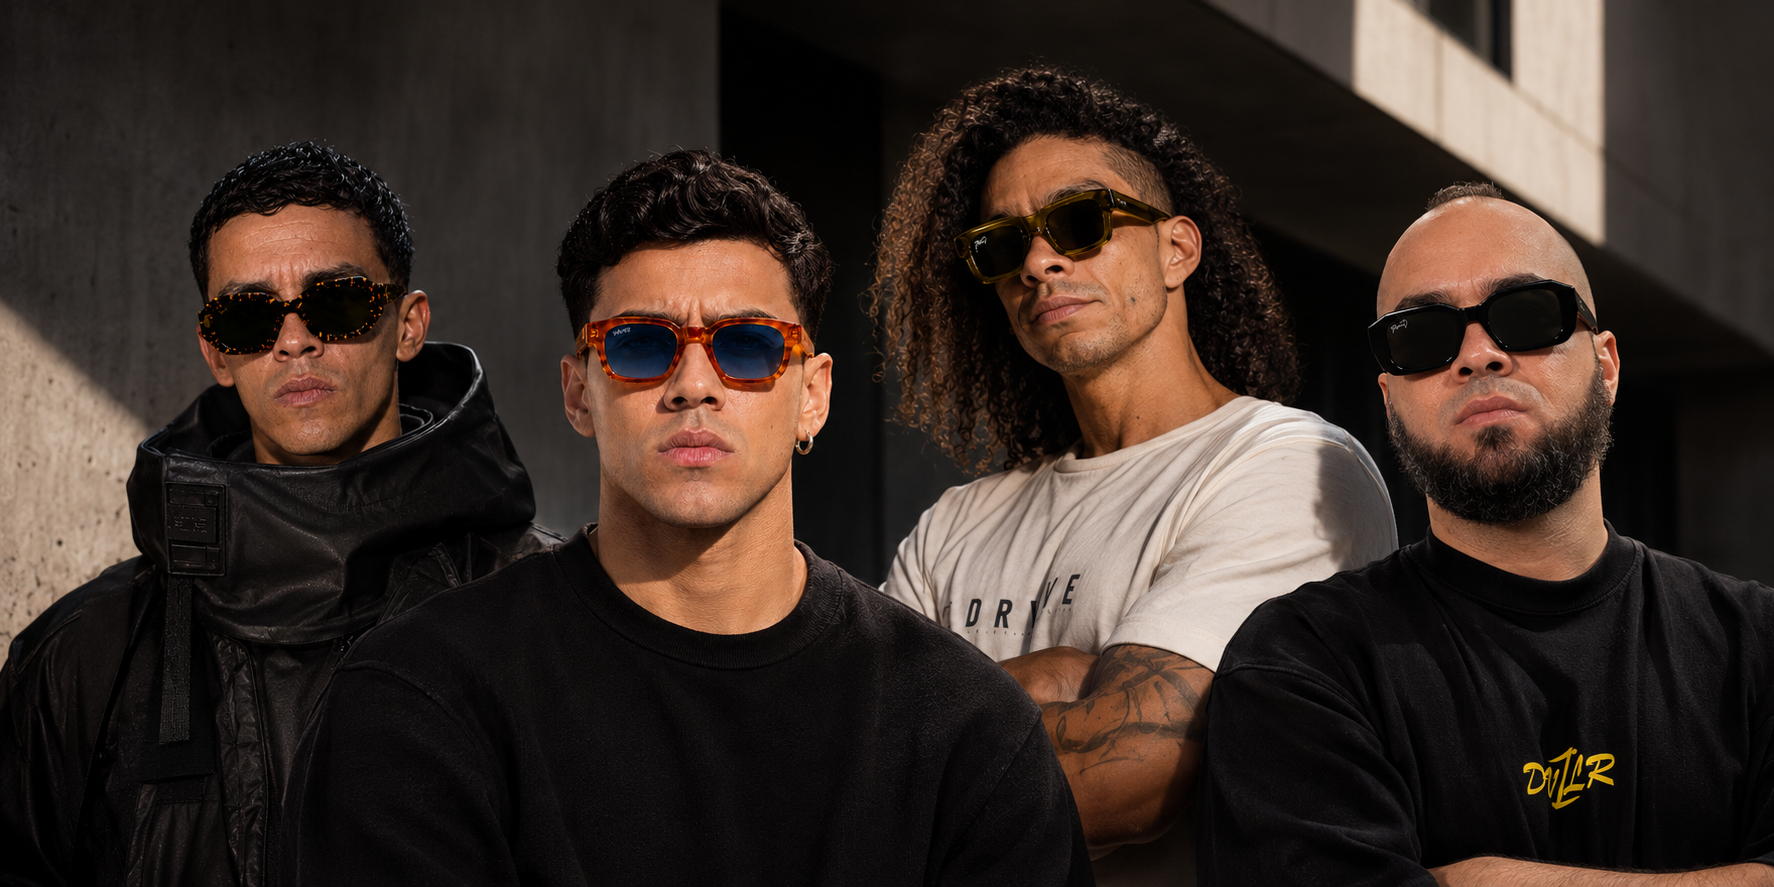
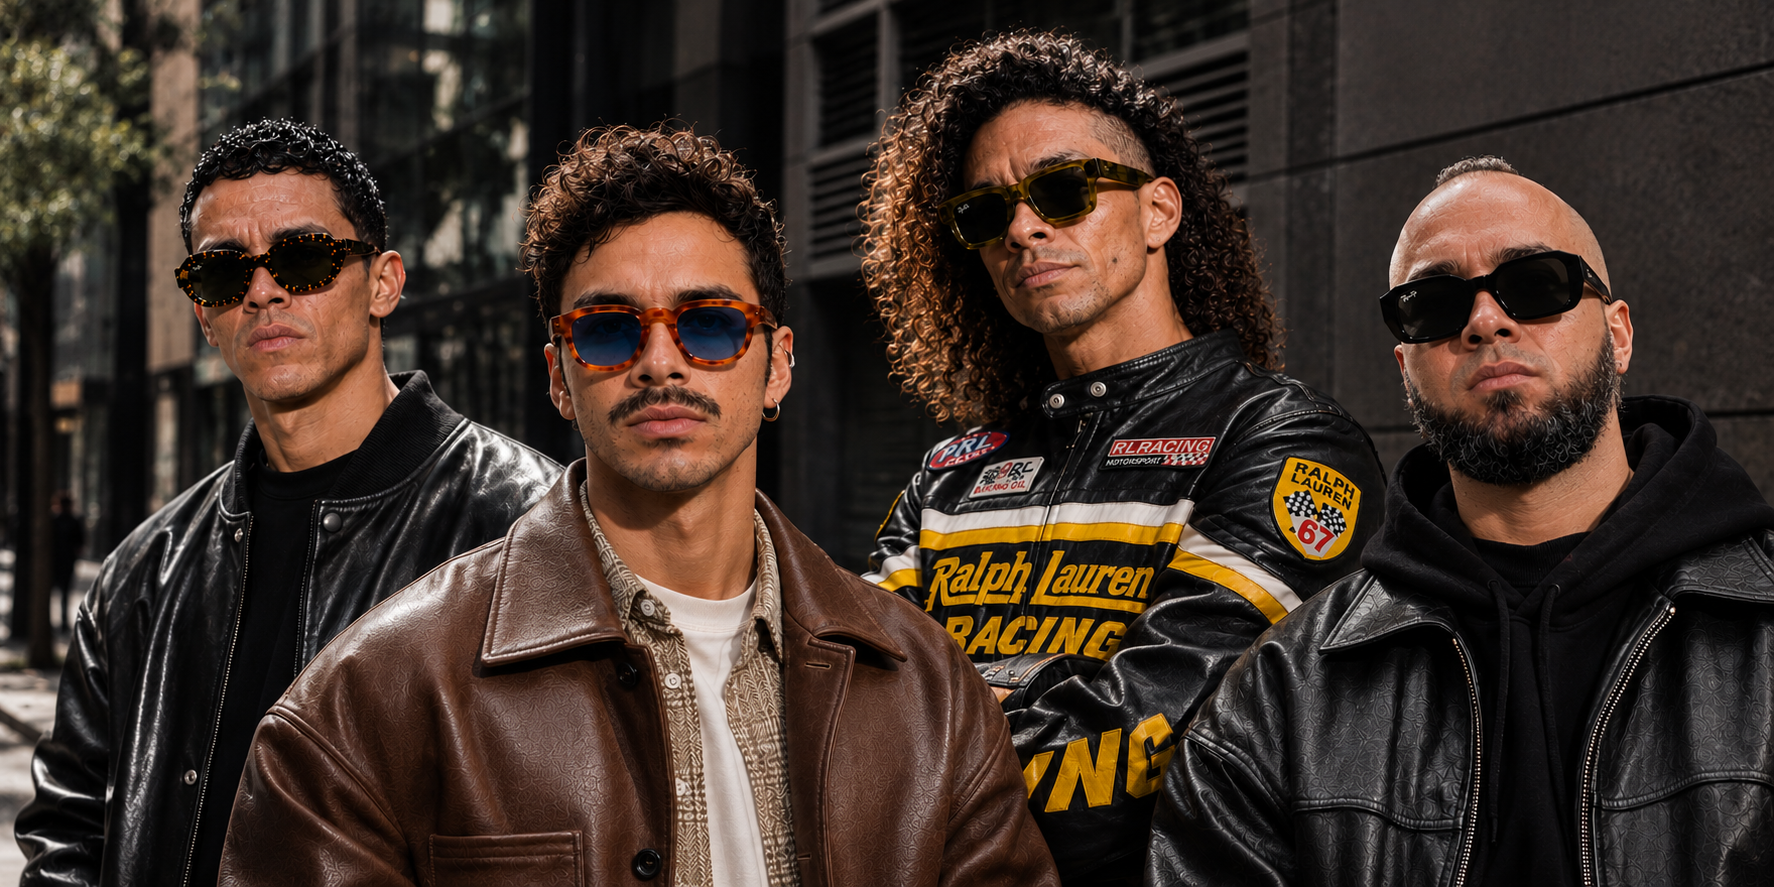
Transicion de paginas moderna, slideshow hero, marquee y galeria de sesion redisenados

diff --git a/app/tienda/page.tsx b/app/tienda/page.tsx
@@ -42,6 +42,11 @@ function TiendaContent() {
   // Active product for the photoshoot session
   const activeProduct = selectedProductId !== 'all' ? PRODUCTS.find((p) => p.id === selectedProductId) : null
 
+  const [shotIndex, setShotIndex] = useState(0)
+  useEffect(() => {
+    setShotIndex(0)
+  }, [selectedProductId])
+
   // Sync state if URL query param changes
   useEffect(() => {
     if (genderParam === 'men') {
@@ -275,108 +280,109 @@ function TiendaContent() {
               transition={{ duration: 0.3, ease: 'easeOut' }}
               className="overflow-hidden mb-10"
             >
-              <div className="p-5 md:p-6 rounded-2xl border border-white/[0.08] bg-[#070707] shadow-[0_12px_40px_rgba(0,0,0,0.7)]">
-                {/* Header de la Sesión */}
-                <div className="flex items-center justify-between pb-4 mb-5 border-b border-white/[0.06]">
-                  <div className="flex items-center gap-3">
-                    <div className="w-9 h-9 rounded-full bg-[#C4822A]/15 border border-[#C4822A]/30 flex items-center justify-center text-[#C4822A] flex-shrink-0">
-                      <Camera size={15} />
-                    </div>
-                    <div>
-                      <div className="flex items-center gap-2">
-                        <span className="font-code text-[8px] tracking-[0.25em] text-[#C4822A] uppercase font-bold">
-                          SESIÓN FOTOGRÁFICA OFICIAL
-                        </span>
-                        <span className="font-code text-[8px] tracking-wider text-white/40 uppercase">
-                          · CÓDIGO {activeProduct.code}
-                        </span>
-                      </div>
-                      <h3 className="font-bebas text-2xl md:text-3xl text-white tracking-wide uppercase">
-                        {activeProduct.name}
-                      </h3>
-                    </div>
+              <div className="rounded-2xl border border-white/[0.08] bg-[#080808] overflow-hidden shadow-[0_12px_40px_rgba(0,0,0,0.7)]">
+                {/* Cabecera editorial */}
+                <div className="flex items-end justify-between gap-4 px-5 md:px-7 pt-5 md:pt-6 pb-4">
+                  <div>
+                    <p className="font-code text-[9px] tracking-[0.3em] text-white/40 uppercase mb-1.5">
+                      Sesión oficial <span className="text-white/20 mx-1">/</span> {activeProduct.code}
+                    </p>
+                    <h3 className="font-bebas text-3xl md:text-4xl text-white tracking-wide uppercase leading-none">
+                      {activeProduct.name}
+                    </h3>
                   </div>
-
                   <button
                     onClick={() => setSelectedProductId('all')}
-                    className="font-code text-[9px] tracking-widest text-white/40 hover:text-white flex items-center gap-1.5 border border-white/10 hover:border-white/30 px-3.5 py-1.5 rounded-full transition-all uppercase"
+                    className="font-code text-[9px] tracking-[0.2em] text-white/50 hover:text-white flex items-center gap-2 transition-colors uppercase"
                     title="Cerrar sesión"
                   >
-                    <span>CERRAR</span>
-                    <X size={12} />
+                    Cerrar
+                    <span className="w-6 h-6 rounded-full border border-white/15 flex items-center justify-center">
+                      <X size={11} />
+                    </span>
                   </button>
                 </div>
 
-                {/* Tomas exclusivamente de ESTA gafa seleccionada */}
-                <div className="flex flex-col gap-2.5">
-                  <div className="flex items-center justify-between">
-                    <div className="flex items-center gap-2">
-                      <span className="w-1.5 h-1.5 rounded-full bg-[#C4822A]" />
-                      <span className="font-code text-[10px] font-bold tracking-[0.18em] text-white uppercase">
-                        {activeProduct.name}
-                      </span>
-                      <span className="font-code text-[9px] tracking-wider text-white/40">
-                        ({activeProduct.gallery.length} tomas de la sesión)
-                      </span>
-                    </div>
-                    <span className="font-code text-[8px] tracking-widest text-white/30 uppercase hidden sm:inline">
-                      HAZ CLIC EN CUALQUIER FOTO PARA AMPLIAR EN ALTA DEFINICIÓN
-                    </span>
-                  </div>
+                {(() => {
+                  const gallery = activeProduct.gallery
+                  const idx = Math.min(shotIndex, gallery.length - 1)
+                  const current = gallery[idx]
+                  const currentIsVideo = current.endsWith('.mp4')
+                  const openLightbox = (i: number) =>
+                    setGalleryState({
+                      images: gallery,
+                      name: activeProduct.name,
+                      code: activeProduct.code,
+                      letter: activeProduct.letter,
+                      initialIndex: i,
+                    })
+                  return (
+                    <div className="grid grid-cols-1 md:grid-cols-[1fr_auto] gap-px bg-white/[0.06] border-t border-white/[0.06]">
+                      {/* Visor principal */}
+                      <button
+                        type="button"
+                        onClick={() => openLightbox(idx)}
+                        className="relative bg-[#050505] aspect-[16/10] md:aspect-auto md:min-h-[360px] overflow-hidden group cursor-zoom-in"
+                      >
+                        <AnimatePresence mode="wait" initial={false}>
+                          <motion.div
+                            key={current}
+                            className="absolute inset-0"
+                            initial={{ opacity: 0 }}
+                            animate={{ opacity: 1 }}
+                            exit={{ opacity: 0 }}
+                            transition={{ duration: 0.35, ease: 'easeOut' }}
+                          >
+                            {currentIsVideo ? (
+                              <video src={current} muted playsInline autoPlay loop className="w-full h-full object-cover" />
+                            ) : (
+                              <Image
+                                src={current}
+                                alt={`${activeProduct.name} — toma ${idx + 1}`}
+                                fill
+                                className="object-contain p-6 md:p-10 group-hover:scale-[1.03] transition-transform duration-700"
+                                sizes="(max-width: 768px) 100vw, 800px"
+                              />
+                            )}
+                          </motion.div>
+                        </AnimatePresence>
+                        <span className="absolute left-4 bottom-4 font-code text-[9px] tracking-[0.25em] text-white/60 uppercase">
+                          {String(idx + 1).padStart(2, '0')} <span className="text-white/25">/ {String(gallery.length).padStart(2, '0')}</span>
+                        </span>
+                        <span className="absolute right-4 bottom-4 w-8 h-8 rounded-full border border-white/15 bg-black/50 backdrop-blur flex items-center justify-center text-white/70 opacity-0 group-hover:opacity-100 transition-opacity">
+                          <Maximize2 size={12} />
+                        </span>
+                      </button>
 
-                  {/* Tira deslizable de fotos */}
-                  <div className="flex gap-3 overflow-x-auto pb-2.5 pt-1 scrollbar-thin">
-                    {activeProduct.gallery.map((imgUrl, imgIdx) => {
-                      const isVideo = imgUrl.endsWith('.mp4')
-                      return (
-                        <div
-                          key={imgUrl}
-                          role="button"
-                          tabIndex={0}
-                          onClick={() => {
-                            setGalleryState({
-                              images: activeProduct.gallery,
-                              name: activeProduct.name,
-                              code: activeProduct.code,
-                              letter: activeProduct.letter,
-                              initialIndex: imgIdx,
-                            })
-                          }}
-                          className="relative flex-shrink-0 w-28 sm:w-36 aspect-[3/4] rounded-xl overflow-hidden border border-white/[0.08] hover:border-white/50 bg-[#0c0c0c] transition-all duration-300 hover:scale-[1.03] cursor-zoom-in group shadow-md"
-                        >
-                          {isVideo ? (
-                            <div className="w-full h-full flex items-center justify-center bg-black/80 relative">
-                              <video src={imgUrl} muted playsInline preload="none" className="w-full h-full object-cover opacity-80" />
-                              <div className="absolute inset-0 bg-black/30 flex items-center justify-center">
-                                <div className="w-8 h-8 rounded-full bg-white/20 backdrop-blur-md flex items-center justify-center text-white group-hover:scale-110 transition-transform">
+                      {/* Miniaturas */}
+                      <div className="bg-[#080808] p-3 md:p-4 flex md:flex-col gap-2 overflow-x-auto md:overflow-y-auto md:max-h-[420px] scrollbar-thin">
+                        {gallery.map((imgUrl, i) => {
+                          const isVideo = imgUrl.endsWith('.mp4')
+                          const active = i === idx
+                          return (
+                            <button
+                              key={imgUrl}
+                              type="button"
+                              onClick={() => setShotIndex(i)}
+                              aria-label={`Ver toma ${i + 1}`}
+                              className={`relative flex-shrink-0 w-20 h-14 md:w-24 md:h-16 overflow-hidden rounded-md bg-[#0c0c0c] border transition-all duration-300 ${
+                                active ? 'border-white/70' : 'border-white/[0.08] opacity-50 hover:opacity-100'
+                              }`}
+                            >
+                              {isVideo ? (
+                                <div className="w-full h-full flex items-center justify-center text-white/80">
                                   <Play size={12} fill="currentColor" />
                                 </div>
-                              </div>
-                            </div>
-                          ) : (
-                            <Image
-                              src={imgUrl}
-                              alt={`${activeProduct.name} — toma ${imgIdx + 1}`}
-                              fill
-                              className="object-contain p-2.5 group-hover:scale-105 transition-transform duration-500"
-                              sizes="180px"
-                            />
-                          )}
-
-                          {/* Badge inferior con el número de toma */}
-                          <div className="absolute bottom-2 left-2 right-2 flex items-center justify-between pointer-events-none">
-                            <span className="font-code text-[7.5px] font-bold tracking-[0.14em] text-white/80 bg-black/80 backdrop-blur-md px-1.5 py-0.5 rounded-[2px] uppercase">
-                              {isVideo ? 'VIDEO' : `TOMA 0${imgIdx + 1}`}
-                            </span>
-                            <div className="w-5 h-5 rounded-full bg-black/70 text-white/90 flex items-center justify-center opacity-0 group-hover:opacity-100 transition-opacity">
-                              <Maximize2 size={9} />
-                            </div>
-                          </div>
-                        </div>
-                      )
-                    })}
-                  </div>
-                </div>
+                              ) : (
+                                <Image src={imgUrl} alt="" fill className="object-cover" sizes="100px" />
+                              )}
+                            </button>
+                          )
+                        })}
+                      </div>
+                    </div>
+                  )
+                })()}
               </div>
             </motion.div>
           )}

diff --git a/components/ModelsHeroSection.tsx b/components/ModelsHeroSection.tsx
@@ -2,7 +2,8 @@
 
 import Image from 'next/image'
 import Link from 'next/link'
-import { motion } from 'framer-motion'
+import { useEffect, useState } from 'react'
+import { motion, AnimatePresence } from 'framer-motion'
 import { ArrowRight } from 'lucide-react'
 
 const FEATURED_MODELS = [
@@ -28,7 +29,16 @@ const FEATURED_MODELS = [
   },
 ]
 
+const HERO_IMAGES = ['/images/ejemploModels.png', '/images/ejemploModels2.png']
+const SLIDE_MS = 5000
+
 export default function ModelsHeroSection() {
+  const [current, setCurrent] = useState(0)
+  useEffect(() => {
+    const id = setInterval(() => setCurrent((i) => (i + 1) % HERO_IMAGES.length), SLIDE_MS)
+    return () => clearInterval(id)
+  }, [])
+
   return (
     <section id="models-hero-section" className="bg-black py-8 md:py-12 relative overflow-hidden">
       <div className="max-w-[1400px] mx-auto px-6 lg:px-10">
@@ -65,15 +75,26 @@ export default function ModelsHeroSection() {
                 ease: 'easeInOut',
               }}
             >
-              <Image
-                src="/images/ejemploModels.png"
-                alt="Modelos Stencil2"
-                fill
-                priority
-                quality={95}
-                sizes="(max-width: 768px) 100vw, 1400px"
-                className="object-cover object-center"
-              />
+              <AnimatePresence initial={false}>
+                <motion.div
+                  key={current}
+                  className="absolute inset-0"
+                  initial={{ opacity: 0, scale: 1.04 }}
+                  animate={{ opacity: 1, scale: 1 }}
+                  exit={{ opacity: 0 }}
+                  transition={{ duration: 1.4, ease: 'easeInOut' }}
+                >
+                  <Image
+                    src={HERO_IMAGES[current]}
+                    alt="Modelos Stencil2"
+                    fill
+                    priority={current === 0}
+                    quality={95}
+                    sizes="(max-width: 768px) 100vw, 1400px"
+                    className="object-cover object-center"
+                  />
+                </motion.div>
+              </AnimatePresence>
             </motion.div>
 
             {/* 2. Destello solar automático que barre las gafas periódicamente */}

diff --git a/components/MarqueeStrip.tsx b/components/MarqueeStrip.tsx
@@ -1,28 +1,32 @@
 'use client'
 
 const ITEMS = [
-  'EDICIÓN LIMITADA 2026',
-  'LENTES POLARIZADAS UV400',
-  'ACETATO PULIDO A MANO',
-  'DISEÑADO EN ESPAÑA',
-  'BISAGRAS REFORZADAS DE 5 DIENTES',
-  'ENVÍO GRATIS Y RÁPIDO',
-  'GARANTÍA DE 30 DÍAS',
-  'VISOR INTERACTIVO 360°',
+  'Edición limitada 2026',
+  'Lentes polarizadas UV400',
+  'Acetato pulido a mano',
+  'Diseñado en España',
+  'Envío gratis desde 50€',
+  'Garantía 30 días',
 ]
 
 export default function MarqueeStrip() {
-  const doubled = [...ITEMS, ...ITEMS]
+  const list = [...ITEMS, ...ITEMS]
 
   return (
-    <div className="w-full overflow-hidden border-y border-white/[0.06] bg-[#050505] py-3.5 select-none">
-      <div className="flex animate-marquee">
-        {doubled.map((item, i) => (
+    <div
+      className="w-full overflow-hidden bg-black border-y border-white/[0.08] py-5 select-none"
+      style={{
+        maskImage: 'linear-gradient(90deg, transparent, #000 10%, #000 90%, transparent)',
+        WebkitMaskImage: 'linear-gradient(90deg, transparent, #000 10%, #000 90%, transparent)',
+      }}
+    >
+      <div className="flex w-max animate-marquee" style={{ animationDuration: '60s' }}>
+        {list.map((item, i) => (
           <div key={i} className="flex items-center flex-shrink-0">
-            <span className="font-code text-[10px] tracking-[0.24em] text-white/50 uppercase whitespace-nowrap px-3">
+            <span className="font-bebas text-[22px] md:text-[26px] tracking-[0.14em] text-white/70 whitespace-nowrap px-8 md:px-12 leading-none">
               {item}
             </span>
-            <span className="text-white/20 text-[7px] mx-1 flex-shrink-0">◆</span>
+            <span className="w-px h-4 bg-white/20" />
           </div>
         ))}
       </div>

diff --git a/app/template.tsx b/app/template.tsx
@@ -1,17 +1,43 @@
 'use client'
 
 import { motion } from 'framer-motion'
-import React from 'react'
+import React, { useEffect, useState } from 'react'
+
+// Evita la transicion en la primera carga (solo entre paginas)
+let firstLoad = true
+
+const EASE: [number, number, number, number] = [0.22, 1, 0.36, 1]
 
 export default function Template({ children }: { children: React.ReactNode }) {
+  // El inicializador no debe mutar el flag (Strict Mode lo ejecuta dos veces)
+  const [animate] = useState(() => !firstLoad)
+  useEffect(() => {
+    firstLoad = false
+  }, [])
+
+  if (!animate) {
+    return <div className="w-full flex-1 flex flex-col min-h-screen">{children}</div>
+  }
+
   return (
-    <motion.div
-      initial={{ opacity: 0, y: 6 }}
-      animate={{ opacity: 1, y: 0 }}
-      transition={{ duration: 0.25, ease: 'easeOut' }}
-      className="w-full flex-1 flex flex-col min-h-screen"
-    >
-      {children}
-    </motion.div>
+    <>
+      {/* Barra de progreso fina arriba */}
+      <motion.div
+        aria-hidden
+        className="fixed top-0 left-0 right-0 h-[2px] z-[9999] bg-white origin-left pointer-events-none"
+        initial={{ scaleX: 0, opacity: 1 }}
+        animate={{ scaleX: 1, opacity: [1, 1, 0] }}
+        transition={{ duration: 0.8, ease: EASE, times: [0, 0.7, 1] }}
+      />
+      {/* Contenido: blur + escala + fundido */}
+      <motion.div
+        initial={{ opacity: 0, y: 28, scale: 0.985, filter: 'blur(14px)' }}
+        animate={{ opacity: 1, y: 0, scale: 1, filter: 'blur(0px)' }}
+        transition={{ duration: 0.75, ease: EASE }}
+        className="w-full flex-1 flex flex-col min-h-screen"
+      >
+        {children}
+      </motion.div>
+    </>
   )
 }
